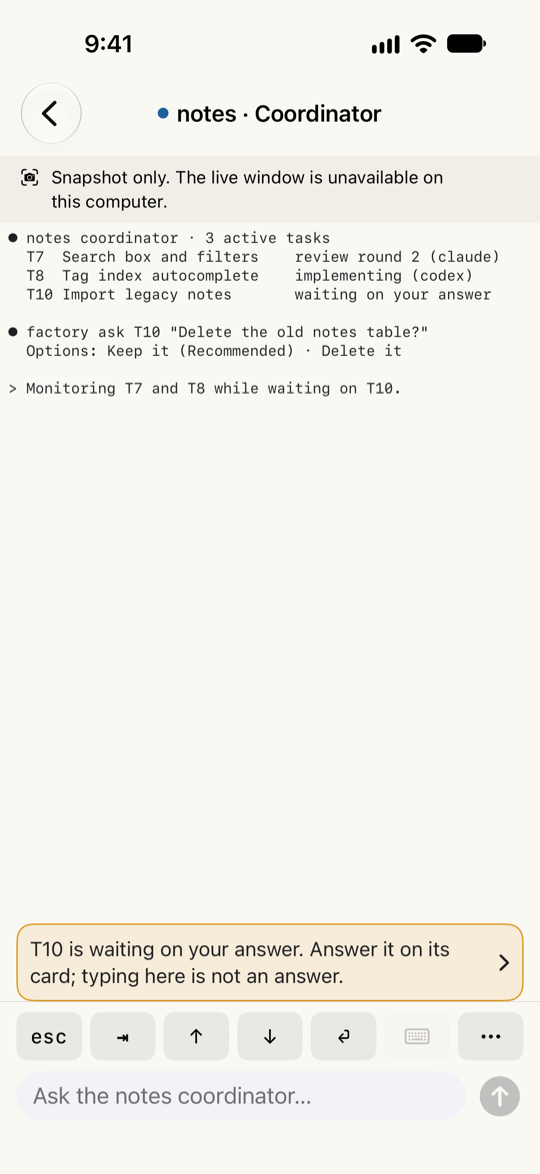
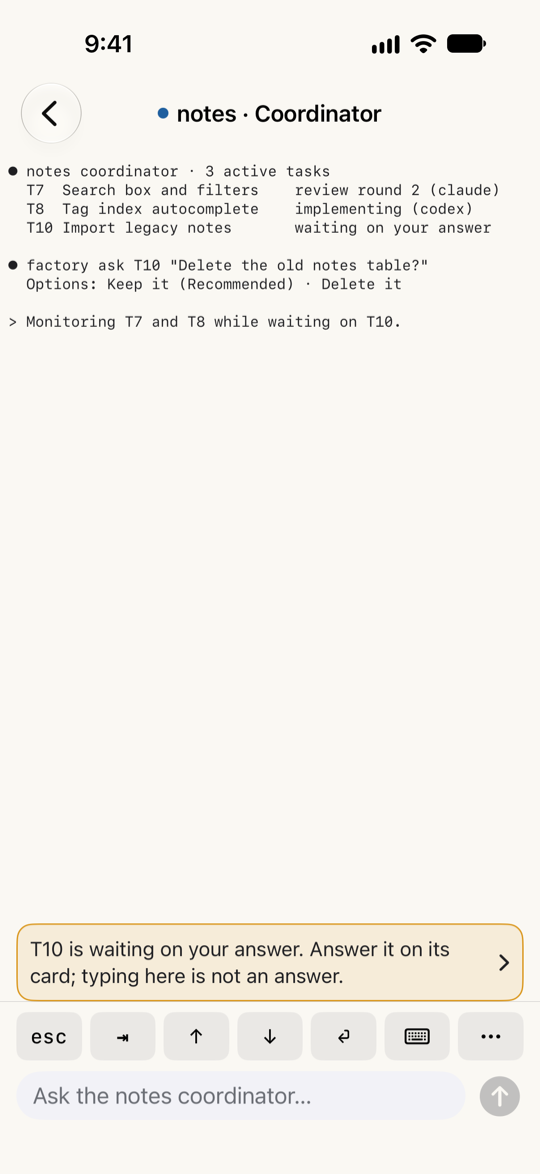
docs: recapture live factory coordinator screenshot and pair settings in README

Changed region(s): [[0.0, 0.1227, 0.9185, 0.3373], [0.7407, 0.8586, 0.8, 0.8893]]

diff --git a/ios/Tests/SheepdogUITests/StubDaemon.swift b/ios/Tests/SheepdogUITests/StubDaemon.swift
@@ -1,3 +1,4 @@
+import CryptoKit
 import Foundation
 import Network
 
@@ -108,7 +109,10 @@ final class StubDaemon {
     var agentInputHandler: ((String, String) -> (Int, String))?
     /// Enable SSE `/events` streaming so tests can push `factory.changed`.
     var enableEvents = false
+    /// Enable live `/term` WebSocket streaming from `screens` so agent/coordinator windows go live instead of falling back to snapshots.
+    var enableTerm = false
     private var eventClients: [NWConnection] = []
+    private var termClients: [NWConnection] = []
     private var nextEventID: UInt64 = 1_795_550_000_000_001
     private var says: [(project: String, body: String)] = []
     private var stops: [String] = []
@@ -167,7 +171,10 @@ final class StubDaemon {
 
     func stop() {
         let clients = lock.withLock { () -> [NWConnection] in
-            let c = eventClients; eventClients = []; return c
+            let c = eventClients + termClients
+            eventClients = []
+            termClients = []
+            return c
         }
         for client in clients { client.cancel() }
         listener.cancel()
@@ -188,7 +195,7 @@ final class StubDaemon {
                 self.receiveRequest(connection, so: received)
                 return
             }
-            self.answer(connection, String(decoding: received, as: UTF8.self))
+            self.answer(connection, received)
         }
     }
 
@@ -201,11 +208,16 @@ final class StubDaemon {
         return request.count - end.upperBound >= length
     }
 
-    private func answer(_ connection: NWConnection, _ request: String) {
-        let words = request.split(separator: " ")
+    private func answer(_ connection: NWConnection, _ received: Data) {
+        let headEnd = received.range(of: Data("\r\n\r\n".utf8))
+        let headText = headEnd.map { String(decoding: received[..<$0.lowerBound], as: UTF8.self) }
+            ?? String(decoding: received, as: UTF8.self)
+        let trailing = headEnd.map { Data(received[$0.upperBound...]) } ?? Data()
+        let request = String(decoding: received, as: UTF8.self)
+        let words = headText.split(separator: " ")
         let method = words.first.map(String.init) ?? "GET"
         let path = words.dropFirst().first.map(String.init) ?? "/"
-        let body = request.range(of: "\r\n\r\n").map { String(request[$0.upperBound...]) } ?? ""
+        let body = String(decoding: trailing, as: UTF8.self)
         lock.withLock {
             seen.append("\(method) \(path)")
             if method == "POST", path.hasPrefix("/api/turn") { typed.append(Self.typedText(request)) }
@@ -215,6 +227,10 @@ final class StubDaemon {
             let head = Data("HTTP/1.1 200 OK\r\nContent-Type: text/event-stream\r\nCache-Control: no-cache\r\n\r\n: ok\n\n".utf8)
             lock.withLock { eventClients.append(connection) }
             connection.send(content: head, completion: .idempotent)
+            return
+        }
+        if method == "GET", path.hasPrefix("/term"), enableTerm, let wsKey = Self.headerValue("sec-websocket-key", in: headText) {
+            upgradeTermWebSocket(connection, key: wsKey, initial: trailing)
             return
         }
         let reply = response(for: path, method: method, body: body)
@@ -407,5 +423,180 @@ final class StubDaemon {
         let bytes = Data(body.utf8)
         let head = "HTTP/1.1 \(status) \(reason)\r\nContent-Type: \(type)\r\nContent-Length: \(bytes.count)\r\nConnection: close\r\n\r\n"
         return Data(head.utf8) + bytes
+    }
+
+    // MARK: - Live `/term` WebSocket
+
+    private final class TermConnectionState {
+        var buffer = Data()
+        var channels: [Int: (pane: String, cols: Int, rows: Int, seq: UInt32)] = [:]
+    }
+
+    private static func headerValue(_ name: String, in head: String) -> String? {
+        let lower = name.lowercased() + ":"
+        for line in head.components(separatedBy: "\r\n") {
+            if line.lowercased().hasPrefix(lower) {
+                return line.dropFirst(lower.count).trimmingCharacters(in: .whitespaces)
+            }
+        }
+        return nil
+    }
+
+    private func upgradeTermWebSocket(_ connection: NWConnection, key: String, initial: Data) {
+        let magic = key + "258EAFA5-E914-47DA-95CA-C5AB0DC85B11"
+        let accept = Data(Insecure.SHA1.hash(data: Data(magic.utf8))).base64EncodedString()
+        let response = "HTTP/1.1 101 Switching Protocols\r\nUpgrade: websocket\r\nConnection: Upgrade\r\nSec-WebSocket-Accept: \(accept)\r\n\r\n"
+        lock.withLock { termClients.append(connection) }
+        let state = TermConnectionState()
+        state.buffer = initial
+        connection.send(content: Data(response.utf8), completion: .contentProcessed { [weak self] error in
+            guard let self, error == nil else { return }
+            self.drainTermFrames(connection, state: state)
+            self.receiveTermData(connection, state: state)
+        })
+    }
+
+    private func receiveTermData(_ connection: NWConnection, state: TermConnectionState) {
+        connection.receive(minimumIncompleteLength: 1, maximumLength: 64 * 1024) { [weak self] data, _, done, error in
+            guard let self else { return }
+            if let data, !data.isEmpty {
+                state.buffer.append(data)
+                self.drainTermFrames(connection, state: state)
+            }
+            if !done, error == nil {
+                self.receiveTermData(connection, state: state)
+            }
+        }
+    }
+
+    private func drainTermFrames(_ connection: NWConnection, state: TermConnectionState) {
+        while let (opcode, payload, consumed) = Self.parseWSFrame(state.buffer) {
+            state.buffer.removeFirst(consumed)
+            switch opcode {
+            case 0x1:
+                handleTermText(connection, payload: payload, state: state)
+            case 0x8:
+                connection.send(content: Self.encodeWSFrame(opcode: 0x8, payload: Data()), completion: .contentProcessed { _ in connection.cancel() })
+                return
+            case 0x9:
+                connection.send(content: Self.encodeWSFrame(opcode: 0xA, payload: payload), completion: .idempotent)
+            default:
+                break
+            }
+        }
+    }
+
+    private func handleTermText(_ connection: NWConnection, payload: Data, state: TermConnectionState) {
+        guard let obj = try? JSONSerialization.jsonObject(with: payload) as? [String: Any],
+              let type = obj["type"] as? String else { return }
+        switch type {
+        case "term-hello":
+            sendWSText(connection, #"{"type":"term-ready","protocol":1,"limits":{"channels":4},"shell":false}"#)
+        case "term-open":
+            guard let ch = obj["ch"] as? Int,
+                  let target = obj["target"] as? [String: Any],
+                  let pane = target["pane_id"] as? String else { return }
+            let cols = obj["cols"] as? Int ?? 58
+            let rows = obj["rows"] as? Int ?? 30
+            guard lock.withLock({ screens[pane] }) != nil else {
+                sendWSText(connection, #"{"type":"term-closed","ch":\#(ch),"reason":"refused:not_tracked"}"#)
+                return
+            }
+            state.channels[ch] = (pane: pane, cols: cols, rows: rows, seq: 0)
+            sendWSText(connection, #"{"type":"term-opened","ch":\#(ch),"pane_id":\#(Self.json(pane)),"mode":"control","cols":\#(cols),"rows":\#(rows),"kind":"agent"}"#)
+            sendTermFullFrame(connection, ch: ch, state: state)
+        case "term-resize":
+            guard let ch = obj["ch"] as? Int, var channel = state.channels[ch] else { return }
+            if let cols = obj["cols"] as? Int { channel.cols = cols }
+            if let rows = obj["rows"] as? Int { channel.rows = rows }
+            state.channels[ch] = channel
+            sendTermFullFrame(connection, ch: ch, state: state)
+        case "term-close":
+            if let ch = obj["ch"] as? Int { state.channels[ch] = nil }
+        default:
+            break
+        }
+    }
+
+    private func sendTermFullFrame(_ connection: NWConnection, ch: Int, state: TermConnectionState) {
+        guard var channel = state.channels[ch],
+              let text = lock.withLock({ screens[channel.pane] }) else { return }
+        channel.seq &+= 1
+        state.channels[ch] = channel
+        var lines = text.replacingOccurrences(of: "\r\n", with: "\n").components(separatedBy: "\n")
+        while lines.last?.isEmpty == true { lines.removeLast() }
+        if channel.rows > 0, lines.count > channel.rows { lines = Array(lines.suffix(channel.rows)) }
+        var ansi = Data("\u{1b}[?2026h\u{1b}[?25l\u{1b}[0m\u{1b}[2J".utf8)
+        for (index, line) in lines.enumerated() {
+            ansi.append(contentsOf: "\u{1b}[\(index + 1);1H".utf8)
+            ansi.append(contentsOf: line.utf8)
+        }
+        ansi.append(contentsOf: "\u{1b}[0m\u{1b}[?2026l".utf8)
+        var frame = Data([
+            0x01,
+            UInt8((ch >> 8) & 0xff), UInt8(ch & 0xff),
+            UInt8((channel.seq >> 24) & 0xff), UInt8((channel.seq >> 16) & 0xff),
+            UInt8((channel.seq >> 8) & 0xff), UInt8(channel.seq & 0xff),
+            UInt8((channel.cols >> 8) & 0xff), UInt8(channel.cols & 0xff),
+            UInt8((channel.rows >> 8) & 0xff), UInt8(channel.rows & 0xff),
+            0x01,
+        ])
+        frame.append(ansi)
+        connection.send(content: Self.encodeWSFrame(opcode: 0x2, payload: frame), completion: .idempotent)
+    }
+
+    private func sendWSText(_ connection: NWConnection, _ text: String) {
+        connection.send(content: Self.encodeWSFrame(opcode: 0x1, payload: Data(text.utf8)), completion: .idempotent)
+    }
+
+    private static func parseWSFrame(_ data: Data) -> (opcode: UInt8, payload: Data, consumed: Int)? {
+        let bytes = [UInt8](data)
+        guard bytes.count >= 2 else { return nil }
+        let opcode = bytes[0] & 0x0f
+        let masked = (bytes[1] & 0x80) != 0
+        var length = Int(bytes[1] & 0x7f)
+        var offset = 2
+        if length == 126 {
+            guard bytes.count >= offset + 2 else { return nil }
+            length = Int(bytes[offset]) << 8 | Int(bytes[offset + 1])
+            offset += 2
+        } else if length == 127 {
+            guard bytes.count >= offset + 8 else { return nil }
+            var value: UInt64 = 0
+            for i in 0 ..< 8 { value = (value << 8) | UInt64(bytes[offset + i]) }
+            length = Int(value)
+            offset += 8
+        }
+        let maskOffset = offset
+        if masked {
+            guard bytes.count >= offset + 4 else { return nil }
+            offset += 4
+        }
+        guard bytes.count >= offset + length else { return nil }
+        var payload = Array(bytes[offset ..< offset + length])
+        if masked {
+            let mask = Array(bytes[maskOffset ..< maskOffset + 4])
+            for i in payload.indices { payload[i] ^= mask[i % 4] }
+        }
+        return (opcode, Data(payload), offset + length)
+    }
+
+    private static func encodeWSFrame(opcode: UInt8, payload: Data) -> Data {
+        var out = Data([0x80 | (opcode & 0x0f)])
+        if payload.count < 126 {
+            out.append(UInt8(payload.count))
+        } else if payload.count <= Int(UInt16.max) {
+            out.append(126)
+            out.append(UInt8((payload.count >> 8) & 0xff))
+            out.append(UInt8(payload.count & 0xff))
+        } else {
+            out.append(127)
+            let count = UInt64(payload.count)
+            for shift in stride(from: 56, through: 0, by: -8) {
+                out.append(UInt8((count >> shift) & 0xff))
+            }
+        }
+        out.append(payload)
+        return out
     }
 }

diff --git a/ios/Tests/SheepdogUITests/RedesignShotsUITests.swift b/ios/Tests/SheepdogUITests/RedesignShotsUITests.swift
@@ -233,7 +233,8 @@ final class RedesignShotsUITests: XCTestCase {
         let sampleAsk = #"{"id":"fask-del-1","pane_id":"factory:proj-1","kind":"answer_prompt","agent":"notes","question":"Delete the old notes table?","summary":"Delete the old notes table?","factory":{"project":"proj-1","task":"T10","kind":"delete"},"options":[{"index":1,"label":"Keep it","default":true,"recommended":true},{"index":2,"label":"Delete it"}]}"#
         let stub = try StubDaemon(.computer(name: "Work Mac", agents: "[]", questions: "[]", factory: runningProjects))
         stub.enableEvents = true
-        stub.helloFeatures = ["agent-actions"]
+        stub.enableTerm = true
+        stub.helloFeatures = ["agent-actions", "term"]
         stub.factoryGraphs["proj-1"] = boardGraph
         stub.screens["coord-notes-1"] = """
         ● notes coordinator · 3 active tasks
@@ -291,6 +292,7 @@ final class RedesignShotsUITests: XCTestCase {
         XCTAssertTrue(terminal.waitForExistence(timeout: 10))
         expectation(for: NSPredicate(format: "value CONTAINS 'notes coordinator'"), evaluatedWith: terminal)
         waitForExpectations(timeout: 15)
+        XCTAssertFalse(app.descendants(matching: .any)["agentScreen.notice"].exists, "live coordinator window shows no snapshot banner")
         XCTAssertTrue(app.descendants(matching: .any)["coordinatorWindow.askStrip"].waitForExistence(timeout: 10))
         sleep(1)
         shot("factory-coordinator")

diff --git a/README.md b/README.md
@@ -63,9 +63,9 @@ Point sheepdog at a GitHub repository and give it a goal: a **coordinator** plan
 
 <p align="center">
   <img src="assets/readme/app/factory-board.png" alt="A factory project board on iPhone: project controls, the Tell box for instructions to the coordinator, and active tasks" width="190">
-  <img src="assets/readme/app/factory-coordinator.png" alt="The coordinator window on iPhone: terminal view, an ask reminder strip pointing back to the ask card, and a prompt box" width="190">
+  <img src="assets/readme/app/factory-settings.png" alt="Factory project settings on iPhone: per-role model rows and an inline read-back confirmation ask to save a setting change" width="190">
 </p>
-<p align="center"><sub>Factory projects in the iPhone app: the project board with tasks and the Tell box, and the coordinator window with an ask reminder. <a href="docs/iphone-app.md#factory">More iPhone and iPad factory screenshots →</a></sub></p>
+<p align="center"><sub>Factory projects in the iPhone app: the project board with tasks and the Tell box, and project settings with a read-back confirmation ask. <a href="docs/iphone-app.md#factory">More iPhone and iPad factory screenshots →</a></sub></p>
 
 ---
 
